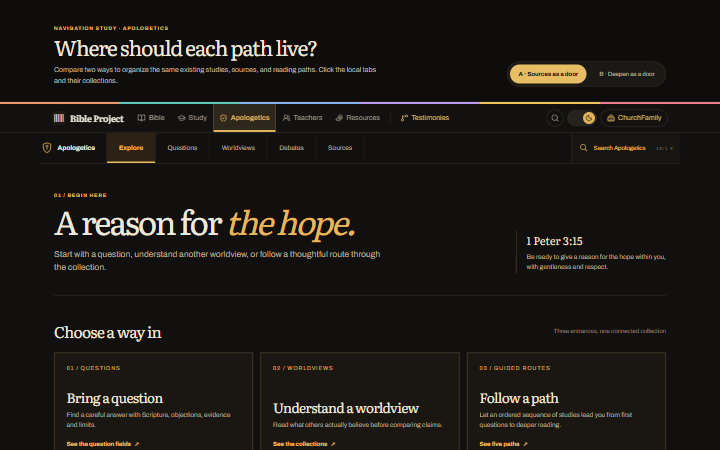
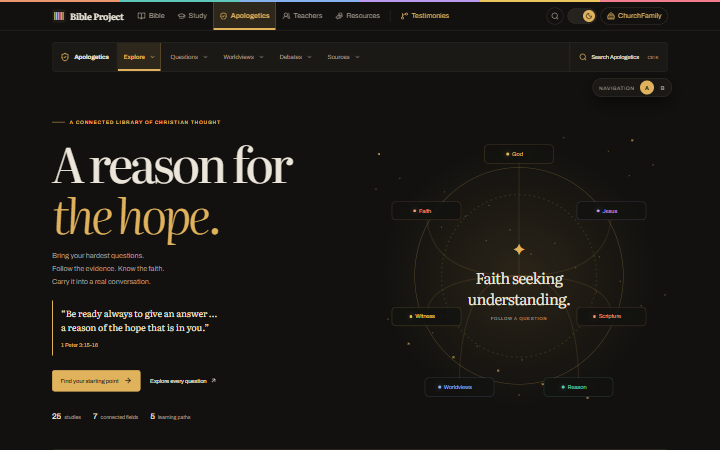
Preview Apologetics navigation modes on real pages

diff --git a/src/components/apologetics/WorldviewNavigation.tsx b/src/components/apologetics/WorldviewNavigation.tsx
@@ -4,9 +4,9 @@ import {Link, useLocation} from 'react-router-dom';
 import {ChevronDown} from 'lucide-react';
 import {AnimatePresence,motion,useReducedMotion} from 'framer-motion';
 import {MosqueIcon} from './MosqueIcon';
-import {main, worlds, islamPages, groupFor, secondary, currentIslam} from '@/lib/apologetics-navigation';
+import {worlds, islamPages, groupFor, secondary, currentIslam} from '@/lib/apologetics-navigation';
 
-const root='/apologetics/worldviews';
+const base='/apologetics', root=base+'/worldviews';
 type World=(typeof worlds)[number];
 function reveal(e:React.FocusEvent<HTMLElement>){e.currentTarget.scrollIntoView({block:'nearest',inline:'nearest'});}
 function Glyph({world}:{world:World}){
@@ -44,14 +44,16 @@ function WorldviewSubmenu(){
   </motion.div>}</AnimatePresence></div>
  </div>;
 }
-export function WorldviewNavigation({savedCount=0,leading,trailing}:{savedCount?:number;leading:ReactNode;trailing:ReactNode}){
- const location=useLocation(),group=groupFor(location.pathname);
+export function WorldviewNavigation({savedCount=0,leading,trailing,mode='a'}:{savedCount?:number;leading:ReactNode;trailing:ReactNode;mode?:'a'|'b'}){
+ const location=useLocation(),oldGroup=groupFor(location.pathname);
+ const group=location.pathname.startsWith('/apologetics/worldviews')?'Worldviews':location.pathname.startsWith('/apologetics/debates')?'Debates':location.pathname.startsWith('/apologetics/topics/reformed')?'Questions':location.pathname.startsWith('/apologetics/topics/')||location.pathname.startsWith('/apologetics/questions')||location.pathname.startsWith('/apologetics/study/')?'Questions':location.pathname.startsWith('/apologetics/paths')?(mode==='a'?'Explore':'Deepen'):location.pathname.startsWith('/apologetics/texts')||location.pathname.startsWith('/apologetics/sources')?(mode==='a'?'Sources':'Deepen'):oldGroup;
+ const sections=[{label:'Explore',to:base},{label:'Questions',to:base+'/questions'},{label:'Worldviews',to:root},{label:'Debates',to:base+'/debates'},{label:mode==='a'?'Sources':'Deepen',to:mode==='a'?base+'/sources':base+'/paths'}];
  const reduced=useReducedMotion();
  const [opened,setOpened]=useState<string|null>(group==='Worldviews'?'Worldviews':null);
  const trigger=useRef<HTMLButtonElement|null>(null),previous=useRef(location.pathname);
  useEffect(()=>{if(previous.current!==location.pathname)setOpened(group==='Worldviews'?'Worldviews':null);previous.current=location.pathname;},[location.pathname,group]);
  useEffect(()=>{const key=(e:KeyboardEvent)=>{if(e.key==='Escape'&&opened&&!document.querySelector('dialog[open]')){setOpened(null);trigger.current?.focus();}};document.addEventListener('keydown',key);return()=>document.removeEventListener('keydown',key);},[opened]);
- return <div className="sm-container"><div className="sm-topbar">{leading}<nav className="sm-main" aria-label="Apologetics sections">{main.filter(d=>d.label!=='Practice'&&d.label!=='My study').map(d=><div key={d.to} data-current={group===d.label}><Link to={d.to} onFocus={reveal} aria-current={group===d.label?'page':undefined}>{d.label}{d.label==="My study"&&savedCount>0&&<span className="sm-saved-count">{savedCount}</span>}</Link><button ref={d.label===group?el=>{if(!trigger.current)trigger.current=el;}:undefined} aria-label={(opened===d.label?'Collapse ':'Browse ')+d.label} aria-expanded={opened===d.label} aria-controls="sm-panel" onClick={e=>{trigger.current=e.currentTarget;setOpened(opened===d.label?null:d.label);}}><ChevronDown size={12}/></button></div>)}</nav>{trailing}</div>
- <AnimatePresence initial={false}>{opened&&<motion.div id="sm-panel" className="sm-panel" key="submenu" initial={{height:0,opacity:0}} animate={{height:'auto',opacity:1,transitionEnd:{overflow:'visible'}}} exit={{height:0,opacity:0,overflow:'hidden'}} style={{overflow:'hidden'}} transition={{duration:reduced?0:.26,ease:[.22,1,.36,1]}}><motion.div initial={{y:reduced?0:-10}} animate={{y:0}} transition={{duration:reduced?0:.26,ease:[.22,1,.36,1]}}>{opened==='Worldviews'?<WorldviewSubmenu/>:<nav className="sm-other-sections" aria-label={opened+' destinations'}>{secondary(opened).map(d=><Link key={d.to} to={d.to} onFocus={reveal} onClick={()=>setOpened(null)}>{d.label}</Link>)}</nav>}</motion.div></motion.div>}</AnimatePresence>
+ return <div className="sm-container"><div className="sm-topbar">{leading}<nav className="sm-main" aria-label="Apologetics sections">{sections.map(d=><div key={d.to} data-current={group===d.label}><Link to={d.to} onFocus={reveal} aria-current={group===d.label?'page':undefined}>{d.label}{d.label==="My study"&&savedCount>0&&<span className="sm-saved-count">{savedCount}</span>}</Link><button ref={d.label===group?el=>{if(!trigger.current)trigger.current=el;}:undefined} aria-label={(opened===d.label?'Collapse ':'Browse ')+d.label} aria-expanded={opened===d.label} aria-controls="sm-panel" onClick={e=>{trigger.current=e.currentTarget;setOpened(opened===d.label?null:d.label);}}><ChevronDown size={12}/></button></div>)}</nav>{trailing}</div>
+ <AnimatePresence initial={false}>{opened&&<motion.div id="sm-panel" className="sm-panel" key="submenu" initial={{height:0,opacity:0}} animate={{height:'auto',opacity:1,transitionEnd:{overflow:'visible'}}} exit={{height:0,opacity:0,overflow:'hidden'}} style={{overflow:'hidden'}} transition={{duration:reduced?0:.26,ease:[.22,1,.36,1]}}><motion.div initial={{y:reduced?0:-10}} animate={{y:0}} transition={{duration:reduced?0:.26,ease:[.22,1,.36,1]}}>{opened==='Worldviews'?<WorldviewSubmenu/>:<nav className="sm-other-sections" aria-label={opened+' destinations'}>{(opened==='Sources'?[{label:'Source room',to:base+'/sources'},{label:'Historic texts',to:base+'/texts'}]:opened==='Deepen'?[{label:'Learning paths',to:base+'/paths'},{label:'Reformed theology',to:base+'/topics/reformed'},{label:'Historic texts',to:base+'/texts'},{label:'Source room',to:base+'/sources'}]:opened==='Explore'?[{label:'Apologetics home',to:base},{label:'Learning paths',to:base+'/paths'},{label:'Christian foundations',to:base+'/topics/reformed'}]:secondary(opened)).map(d=><Link key={d.to} to={d.to} onFocus={reveal} onClick={()=>setOpened(null)}>{d.label}</Link>)}</nav>}</motion.div></motion.div>}</AnimatePresence>
  </div>;
 }

diff --git a/src/pages/ApologeticsPage.tsx b/src/pages/ApologeticsPage.tsx
@@ -22,6 +22,8 @@ import { WorldviewIndex, WorldviewPage } from "./WorldviewsPage";
 
 export default function ApologeticsPage() {
   const book = useApologeticsNotebook(), location = useLocation();
+  const [navMode,setNavMode]=useState<'a'|'b'>(()=>{try{return localStorage.getItem('apologetics-navigation-mode')==='b'?'b':'a';}catch{return 'a';}});
+  const selectNavMode=(mode:'a'|'b')=>{setNavMode(mode);try{localStorage.setItem('apologetics-navigation-mode',mode);}catch{/* Preview still works without storage. */}};
   useEffect(() => {
     const [, , section, id] = location.pathname.split("/");
     const title = section === "texts" ? "Historic Reformed texts" : section === "study" ? studyById(id)?.title : section === "topics" ? topicById(id)?.title : section === "paths" ? PATHS.find((path) => path.id === id)?.title : section === "worldviews" ? WORLDVIEWS.find((worldview) => worldview.id === id)?.title : section === "debates" ? (id ? DEBATES.find((debate) => debate.id === id)?.title : "Debates") : undefined;
@@ -36,7 +38,8 @@ export default function ApologeticsPage() {
   const legacy: Record<string, string> = { "#foundations": "/paths/begin", "#conversation": "/practice", "#across-beliefs": "/worldviews", "#debates": "/debates" };
   if (location.pathname.replace(/\/$/, "") === base && legacy[location.hash]) return <Navigate replace to={base + legacy[location.hash]} />;
   return <div className="am-shell ap-live-shell">
-    <ApologeticsNavigationHeader savedCount={book.notebook.saved.length}/><div className="am-layout"><div className="ap-page am-content">
+    <div className="ap-navigation-mode" role="group" aria-label="Apologetics navigation preview"><span>Navigation</span><button type="button" aria-label="Navigation option A: Sources" aria-pressed={navMode==='a'} onClick={()=>selectNavMode('a')}>A</button><button type="button" aria-label="Navigation option B: Deepen" aria-pressed={navMode==='b'} onClick={()=>selectNavMode('b')}>B</button></div>
+    <ApologeticsNavigationHeader savedCount={book.notebook.saved.length} mode={navMode}/><div className="am-layout"><div className="ap-page am-content">
     {book.storageError && <p className="ap-storage-error" role="status">Your browser could not save these changes. Keep this tab open and copy any notes you want to retain.</p>}
     <Routes><Route path="worldviews/islam/guide/*" element={<IslamGuidePage/>}/>
       <Route index element={<Hub book={book} />} /><Route path="texts" element={<ReformedLibraryPage />} /><Route path="reformed" element={<Navigate replace to={base + "/topics/reformed"} />} /><Route path="questions" element={<QuestionLibrary book={book} />} /><Route path="topics/:id" element={<TopicPage book={book} />} /><Route path="study/:id" element={<StudyPage book={book} />} /><Route path="paths" element={<PathIndex book={book} />} /><Route path="paths/:id" element={<PathPage book={book} />} /><Route path="worldviews" element={<WorldviewIndex />} /><Route path="worldviews/:id" element={<WorldviewPage book={book} />} /><Route path="debates" element={<DebateIndex />} /><Route path="debates/:id" element={<DebatePage book={book} />} /><Route path="practice" element={<PracticePage key={location.search} book={book} />} /><Route path="sources" element={<SourceRoom />} /><Route path="saved" element={<SavedPage book={book} />} /><Route path="*" element={<Missing />} />

diff --git a/design/apologetics-ia/index.html b/design/apologetics-ia/index.html
@@ -1,8 +1,1 @@
-<!doctype html>
-<html lang="en"><head><meta charset="utf-8"><meta name="viewport" content="width=device-width,initial-scale=1"><title>Apologetics navigation · Two maps</title><link rel="stylesheet" href="./styles.css"></head>
-<body>
-<div class="workbench"><div><p class="kicker">Navigation study · Apologetics</p><h1>Where should each path live?</h1><p>Compare two ways to organize the same existing studies, sources, and reading paths. Click the local tabs and their collections.</p></div><div class="models" role="group" aria-label="Navigation model"><button data-model="sources" aria-pressed="true">A · Sources as a door</button><button data-model="deepen" aria-pressed="false">B · Deepen as a door</button></div></div>
-<div class="site-preview"><iframe class="real-header" src="/apologetics" title="Existing website header, unchanged" scrolling="no"></iframe><div class="ap-nav"><div class="ap-brand"><svg class="shield" width="20" height="23" viewBox="0 0 24 28" fill="none" stroke="currentColor" stroke-width="1.7"><path d="M12 2 21 5v8c0 6-4 10-9 13C7 23 3 19 3 13V5z"/><path d="M12 7v11M8.5 10h7"/></svg><span>Apologetics</span></div><nav class="tabs" aria-label="Apologetics sections"></nav><button class="search" aria-label="Search Apologetics"><svg width="19" height="19" viewBox="0 0 24 24" fill="none" stroke="currentColor" stroke-width="1.6"><circle cx="10.5" cy="10.5" r="6.5"/><path d="m15.5 15.5 5 5"/></svg><span>Search Apologetics</span><kbd>Ctrl K</kbd></button></div><main id="content" class="content"></main></div>
-<div class="legend"><strong>What moved?</strong><div><span>Learning paths → <b id="path-home"></b></span><span>Reformed theology → <b>Questions + foundations gateway</b></span><span>Historic texts → <b id="texts-home"></b></span></div><p>All existing destination URLs remain in place. This is a navigation mockup; the website header above is the live, unchanged header.</p></div>
-<dialog id="search-dialog"><div class="dialog-head"><h2>Find your way in.</h2><button id="close" aria-label="Close search">×</button></div><input type="search" id="query" placeholder="Try resurrection, Islam, Reformed theology…" aria-label="Search mockup destinations"><div id="results"></div></dialog>
-<script src="./app.js"></script></body></html>
+<!doctype html><html lang="en"><head><meta charset="utf-8"><meta name="viewport" content="width=device-width,initial-scale=1"><title>Apologetics A/B navigation preview</title><meta http-equiv="refresh" content="0; url=/apologetics"></head><body><p>The A/B preview now uses the <a href="/apologetics">real Apologetics pages</a>. Use the floating pill on those pages to switch modes.</p><script>location.replace('/apologetics')</script></body></html>

diff --git a/src/components/apologetics/ApologeticsNavigationHeader.tsx b/src/components/apologetics/ApologeticsNavigationHeader.tsx
@@ -4,7 +4,7 @@ import {ArrowRight,BookOpen,Search,ShieldCheck,X} from 'lucide-react';
 import {browseGroups,destinations} from '@/lib/apologetics-navigation';
 import {WorldviewNavigation} from './WorldviewNavigation';
 const base='/apologetics';
-export function ApologeticsNavigationHeader({savedCount=0}:{savedCount?:number}) {
+export function ApologeticsNavigationHeader({savedCount=0,mode='a'}:{savedCount?:number;mode?:'a'|'b'}) {
   const location=useLocation();
   const [query,setQuery]=useState('');
   const dialog=useRef<HTMLDialogElement>(null), trigger=useRef<HTMLButtonElement>(null), input=useRef<HTMLInputElement>(null);
@@ -15,7 +15,7 @@ export function ApologeticsNavigationHeader({savedCount=0}:{savedCount?:number})
   const seen=new Set<string>();
   const results=destinations.filter(d=>{const matches=(d.label+' '+(d.detail??'')).toLowerCase().includes(query.trim().toLowerCase());if(!matches||seen.has(d.to))return false;seen.add(d.to);return true;});
   return <>
-    <WorldviewNavigation savedCount={savedCount}
+    <WorldviewNavigation savedCount={savedCount} mode={mode}
       leading={<Link to={base} className="sm-leading-brand" aria-label="Apologetics home"><ShieldCheck size={18}/><strong>Apologetics</strong></Link>}
       trailing={<button ref={trigger} onClick={open} className="sm-trailing-search" type="button" aria-label="Search Apologetics"><Search size={16}/><span>Search Apologetics</span><kbd>Ctrl K</kbd></button>}/>
     <dialog onKeyDown={e=>{if(e.key==="Escape"){e.preventDefault();e.stopPropagation();close();}}} className="am-dialog" ref={dialog} onClose={()=>trigger.current?.focus()} onClick={e=>{if(e.target===dialog.current)close();}} aria-labelledby="am-dialog-title">

diff --git a/src/components/apologetics/navigation.css b/src/components/apologetics/navigation.css
@@ -76,3 +76,11 @@
 .sm-trailing-search:hover{background:color-mix(in srgb,var(--accent) 7%,var(--surface))}
 @media(max-width:1100px){.sm-trailing-search{min-width:48px;padding:0 13px}.sm-trailing-search span,.sm-trailing-search kbd{display:none}}
 @media(max-width:650px){.sm-leading-brand{min-width:46px;padding:0 12px}.sm-leading-brand strong{display:none}}
+
+/* Temporary A/B control floats over the real Apologetics collection. */
+.ap-navigation-mode{position:fixed;z-index:60;top:156px;right:max(16px,calc((100vw - 1280px)/2 + 16px));display:flex;align-items:center;gap:3px;padding:4px;border:1px solid var(--line);border-radius:999px;background:var(--surface);color:var(--muted);box-shadow:0 10px 32px #0008;font-size:10px}
+.ap-navigation-mode>span{padding:0 8px;text-transform:uppercase;letter-spacing:.1em}
+.ap-navigation-mode button{min-width:28px;height:28px;border:0;border-radius:50%;background:transparent;color:var(--muted);font-size:11px;font-weight:700;cursor:pointer}
+.ap-navigation-mode button[aria-pressed=true]{background:var(--accent);color:var(--page)}
+.ap-navigation-mode button:focus-visible{outline:2px solid var(--accent);outline-offset:2px}
+@media(max-width:650px){.ap-navigation-mode{top:154px;right:12px}.ap-navigation-mode>span{display:none}}

diff --git a/design/apologetics-ia/README.md b/design/apologetics-ia/README.md
@@ -1,5 +1,5 @@
 # Apologetics navigation mockup
 
-Interactive comparison of two maps for the existing collection. A gives Sources its own door; B groups the previously separate Learning paths, Reformed theology, and Historic texts under Deepen. Click the tabs and the Reformed question filter to inspect where content lands. Links in cards open the existing site destinations.
+This entry now redirects to the real `/apologetics` pages. A floating A/B pill switches between two local navigation maps while retaining the real collection content. A gives Sources its own door; B groups paths, Reformed theology, and source collections under Deepen.
 
-The top global website header is embedded from the live Apologetics page and is not redesigned here. This mockup changes only the local Apologetics information architecture. Existing URLs are retained in both models.
+The global website header is unchanged. Existing collection URLs remain in place in both modes.
